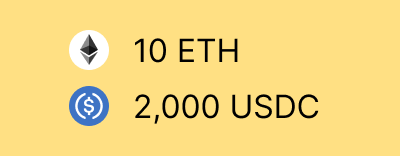
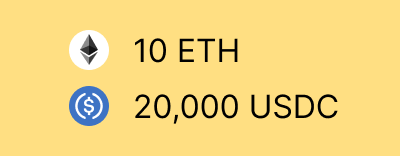
Updated content to use near real price of ETH-USDC

Changed region(s): [[0.36, 0.5897, 0.84, 0.7949]]

diff --git a/src/app/dex/pricing/page.tsx b/src/app/dex/pricing/page.tsx
@@ -29,11 +29,11 @@ const Pricing: React.FC = () => {
         width: 400,
         height: 156,
       },
-      `In the example above, there are 10 ETH and 2,000 USDC that can be
+      `In the example above, there are 10 ETH and 20,000 USDC that can be
       used for exchange in Uniswap.`,
       `Uniswap makes sure that they always get the constant value when
       they multiply the quantity of ETH and USDC.`,
-      `In this case, they make sure that it is always 20,000 (<code>10 * 2000</code>).`,
+      `In this case, they make sure that it is always 200,000 (<code>10 * 20000</code>).`,
     ],
   };
 
@@ -46,17 +46,17 @@ const Pricing: React.FC = () => {
         height: 156,
       },
       `She sells 1 ETH to the exchange. Then the exchange has 11 ETH and
-      2,000 USDC.`,
-      `However, at this point, <code>11 * 2000 != 20000</code>`,
+      20,000 USDC.`,
+      `However, at this point, <code>11 * 20000 != 200000</code>`,
       `So the exchange needs to change the quantity of USDC they have.`,
       `When one quantity changes, the other quantity needs to be changed.
       If the quantity of USDC is x, the exchange wants to ensure
       that:
-      <code>11 * x = 20000</code>`,
+      <code>11 * x = 200000</code>`,
       {
         className: "mt-5",
         question: "This means:",
-        answers: ["x = 1,818", "x = 2,000", "x = 20,000", "x = 182"],
+        answers: ["x = 18,181", "x = 20,000", "x = 200,000", "x = 1820"],
         correctAnswerIndex: 0,
       },
     ],
@@ -64,14 +64,14 @@ const Pricing: React.FC = () => {
 
   const section4 = {
     contents: [
-      `Since <code>x = 20000 / 11</code>, the x, the quantity of USDC in the
-      exchange should be approximately 1,818.`,
-      `Now, since we know that we need to keep only 1,818 in the
+      `Since <code>x = 200000 / 11</code>, the x, the quantity of USDC in the
+      exchange should be approximately 18,181.`,
+      `Now, since we know that we need to keep only 18,181 in the
       exchange, we can send some USDC back to Alice.`,
       {
         className: "mt-5",
         question: "Alice will get:",
-        answers: ["1,818 USDC", "182 USDC", "100 USDC", "11 USDC"],
+        answers: ["1,800 USDC", "1819 USDC", "1000 USDC", "1100 USDC"],
         correctAnswerIndex: 1,
       },
     ],
@@ -79,17 +79,17 @@ const Pricing: React.FC = () => {
 
   const section5 = {
     contents: [
-      `Since the exchange needs to have only 1818, you can say that
-      <code>2000 - 1818 = 182</code> can be sent back to Alice.`,
+      `Since the exchange needs to have only 18,181, you can say that
+      <code>20000 - 18181 = 1819</code> can be sent back to Alice.`,
       {
         src: "/images/pricing-3.png",
         width: 525,
         height: 156,
       },
-      `In this way, the exchange can keep the original value of 20,000
+      `In this way, the exchange can keep the original value of 200,000
       constant when they multiply the quantity of ETH and USDC.`,
-      `<pre><code>11 * 1818 = 20000</code></pre>`,
-      `Sure, <code>11 * 1818</code> is not exactly 20,000, and financial math can not
+      `<pre><code>11 * 1819 = 200000</code></pre>`,
+      `Sure, <code>11 * 1819</code> is not exactly 200,000, and financial math can not
       be approximated in practice. But you get the basic idea. 🙂`,
     ],
   };

diff --git a/src/components/BuyUSDC.tsx b/src/components/BuyUSDC.tsx
@@ -3,9 +3,9 @@
 import React, { useState } from "react";
 import { Card, CardContent, CardHeader } from "./ui/card";
 import { Button } from "./ui/button";
-import { X } from "lucide-react";
 import Image from "next/image";
 import TopicContext from "@/app/contexts/TopicContext";
+import { formatFloat } from "@/lib/utils";
 
 export interface BuyUSDCProps {
   onBuy?: (usdcBuyAmt: number) => void;
@@ -19,7 +19,7 @@ const BuyUSDC: React.FC<BuyUSDCProps> = (props: BuyUSDCProps) => {
   const [ethBalance, setEthBalance] = useState(1);
   const [usdcBalance, setUsdcBalance] = useState(0);
   const [ethSellAmt, setEthSellAmt] = useState(1);
-  const [usdcBuyAmt, setUsdcBuyAmt] = useState(182);
+  const [usdcBuyAmt, setUsdcBuyAmt] = useState(2000);
   const [buttonLabel, setButtonLabel] = useState("Buy");
   const [isButtonDisabled, setIsButtonDisabled] = useState(false);
 
@@ -51,17 +51,21 @@ const BuyUSDC: React.FC<BuyUSDCProps> = (props: BuyUSDCProps) => {
               width={16}
               height={16}
             />
-            <div className="text-sm ml-1">Your ETH Balance: {ethBalance}</div>
+            <div className="text-sm ml-1">
+              Your ETH Balance: {formatFloat(ethBalance)}
+            </div>
           </div>
           <div className="flex flex-row mt-1">
             <Image src="/images/usdc.png" alt="USDC" width={16} height={16} />
-            <div className="text-sm ml-1">Your USDC Balance: {usdcBalance}</div>
+            <div className="text-sm ml-1">
+              Your USDC Balance: {formatFloat(usdcBalance)}
+            </div>
           </div>
         </div>
         <div className="mb-4 mt-5">
           <div className="text-sm text-gray-500">You Sell</div>
           <div className="flex flex-row justify-between items-center">
-            <div className="text-lg">{ethSellAmt} ETH</div>
+            <div className="text-lg">{formatFloat(ethSellAmt)} ETH</div>
             <Image
               id="eth"
               src="/images/ethereum.png"
@@ -74,7 +78,7 @@ const BuyUSDC: React.FC<BuyUSDCProps> = (props: BuyUSDCProps) => {
         <div className="mb-4 mt-5">
           <div className="text-sm text-gray-500">You Get</div>
           <div className="flex flex-row justify-between items-center">
-            <div className="text-lg">{usdcBuyAmt} USDC</div>
+            <div className="text-lg">{formatFloat(usdcBuyAmt)} USDC</div>
             <Image
               id="eth"
               src="/images/usdc.png"

diff --git a/src/app/dex/buying-selling/page.tsx b/src/app/dex/buying-selling/page.tsx
@@ -5,6 +5,7 @@ import BuyUSDC from "@/components/BuyUSDC";
 import Topic from "@/components/Topic";
 import { getBuyingSellingTopic } from "@/app/data/staticDataService";
 import { AppContext } from "@/app/contexts/AppContextProvider";
+import { formatFloat } from "@/lib/utils";
 
 export default function BuyingSelling() {
   const { setCurrentTopic, completedTopics } = React.useContext(AppContext)!;
@@ -65,7 +66,7 @@ export default function BuyingSelling() {
 
   const section4 = {
     contents: [
-      `Now you have ${usdcBuyAmt} USDC!`,
+      `Now you have ${formatFloat(usdcBuyAmt, 0)} USDC!`,
       `But how did they calculate the price with no one in the middle?
       We'll talk about that in the next chapter!`,
     ],

diff --git a/src/lib/utils.ts b/src/lib/utils.ts
@@ -9,11 +9,18 @@ export function parseAndFormatFloat(isEth: boolean, number: string) {
   if (isEth) {
     return parseFloat(number).toLocaleString("en-US", {
       minimumFractionDigits: 4,
-      maximumFractionDigits: 6
+      maximumFractionDigits: 6,
     });
   }
   return parseFloat(number).toLocaleString("en-US", {
     minimumFractionDigits: 2,
-    maximumFractionDigits: 2
+    maximumFractionDigits: 2,
+  });
+}
+
+export function formatFloat(number: number, fractionDigits: number = 2) {
+  return number.toLocaleString("en-US", {
+    minimumFractionDigits: fractionDigits,
+    maximumFractionDigits: fractionDigits,
   });
 }
